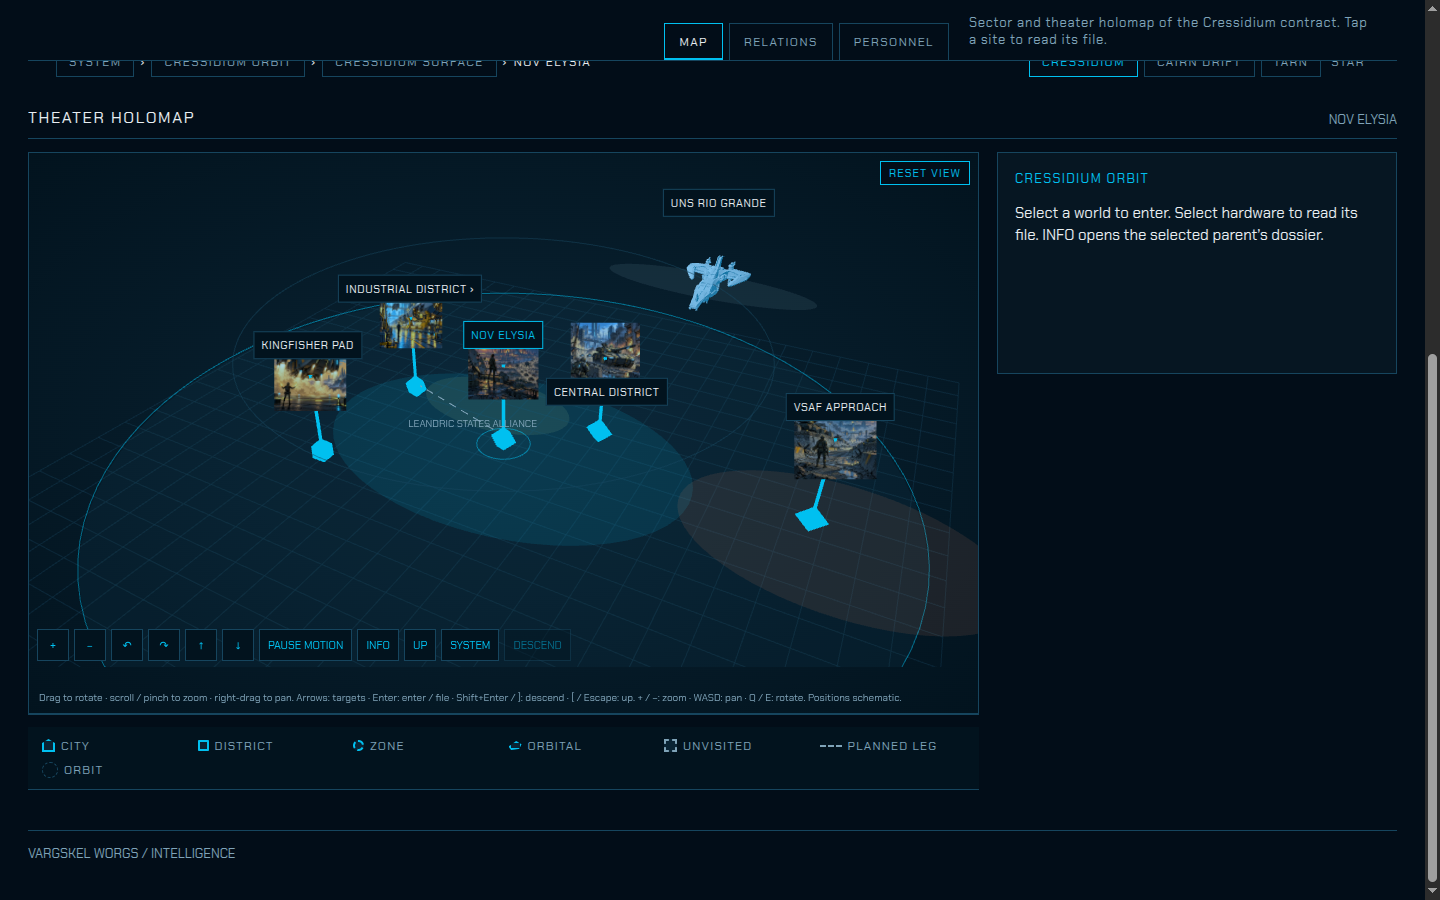
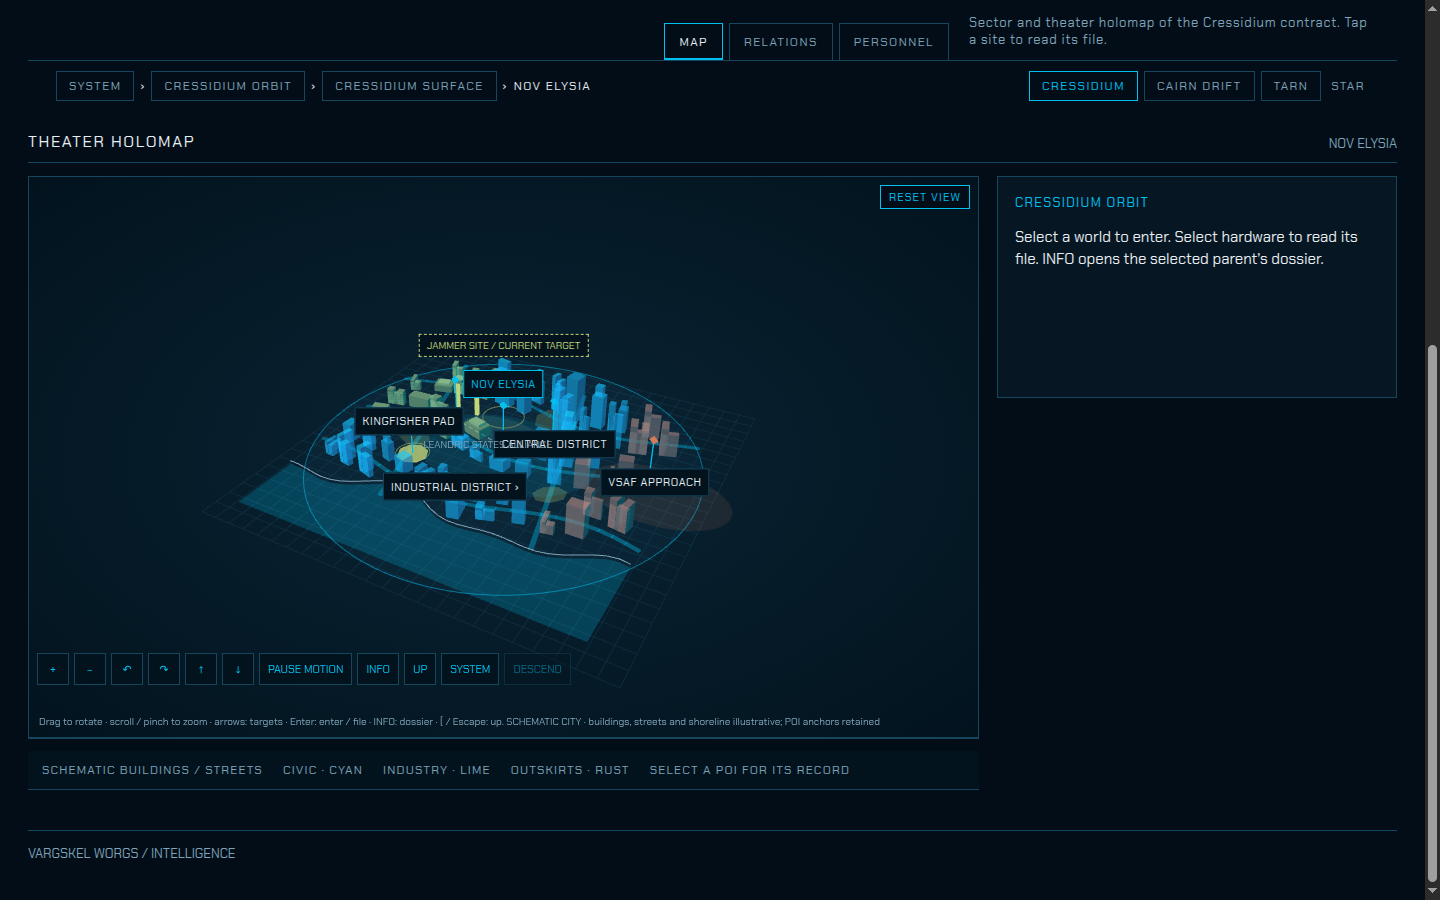
holomap(#29): build schematic coastal city neighborhoods

diff --git a/holomap3d.js b/holomap3d.js
@@ -48,12 +48,34 @@ function boot(){
  function texture(path,done){const g=generation;const t=own(new THREE.TextureLoader().load(path,()=>{if(g!==generation){t.dispose();return}done?.(t);awake()},undefined,e=>{if(g===generation)fallback(e)}));t.colorSpace=THREE.SRGBColorSpace;return t;}
  function build(fid){
   dispose();frame=fid;description=N.scene(fid,{reducedMotion:rm.matches});phase=0;
+  hint.textContent='Drag to rotate · scroll / pinch to zoom · arrows: targets · Enter: enter / file · INFO: dossier · [ / Escape: up. Positions schematic.';
   scene=new THREE.Scene();scene.add(new THREE.AmbientLight(palette.cyan,2));const light=new THREE.DirectionalLight(0xffffff,3);light.position.set(-3,5,3);scene.add(light);
   renderer.domElement.setAttribute('aria-label',description.aria);host.setAttribute('aria-label',description.aria);
   const grid=new THREE.GridHelper(description.radius*2.5,24,palette.line,palette.line);own(grid.geometry);own(grid.material);grid.material.transparent=true;grid.material.opacity=.35;grid.position.y=-.22;scene.add(grid);
   if(description.mode==='ground'){
    const table=mesh(new THREE.CircleGeometry(description.radius*1.2,64),material(palette.line,.15));table.rotation.x=-Math.PI/2;table.position.y=-.12;
    ring(description.radius*1.2,palette.cyan,scene,-.1);
+  }
+  if(description.city){
+   const city=description.city,box=own(new THREE.BoxGeometry(1,1,1)),dummy=new THREE.Object3D();
+   function instances(parts,mat){const inst=own(new THREE.InstancedMesh(box,mat,parts.length));parts.forEach((p,i)=>{dummy.position.fromArray(p.pos);dummy.scale.fromArray(p.size);dummy.rotation.set(0,p.yaw||0,0);dummy.updateMatrix();inst.setMatrixAt(i,dummy.matrix);if(p.shade!==undefined)inst.setColorAt(i,new THREE.Color(0xffffff).multiplyScalar(.62+p.shade*.38))});scene.add(inst);return inst;}
+   for(const kind of ['housing','civic','commercial','factory','outskirts']){const parcels=city.buildings.filter(b=>b.kind===kind),parts=[];
+    for(const b of parcels){const add=(dx,dz,sx,sz,h)=>{const c=Math.cos(b.yaw),s=Math.sin(b.yaw);parts.push({pos:[b.pos[0]+dx*c+dz*s,h/2,b.pos[2]-dx*s+dz*c],size:[sx,h,sz],yaw:b.yaw,shade:b.shade})};const [w,h,d]=b.size;
+     if(b.form==='L'||b.form==='U'){add(-w*.3,0,w*.4,d,h);add(0,d*.3,w,d*.4,h*.8);if(b.form==='U')add(w*.3,0,w*.4,d,h*.9)}else{add(0,0,w,d,h);if(b.form==='stepped')parts.push({pos:[b.pos[0],h*1.15,b.pos[2]],size:[w*.65,h*.3,d*.65],yaw:b.yaw,shade:b.shade});}
+    }if(!parts.length)continue;
+    const color=kind==='outskirts'?palette.rust:kind==='factory'?palette.lime:palette.cyan;
+    instances(parts,own(new THREE.MeshPhongMaterial({color,emissive:palette.line,transparent:true,opacity:.65,shininess:50})));
+    // Solid low-poly roofs avoid the diagonal triangulation of wireframe boxes.
+   }
+   instances(city.streets,material(palette.cyan,.25));
+   const outline=city.water.points,shape=new THREE.Shape();shape.moveTo(outline[0][0],-outline[0][1]);outline.slice(1).forEach(p=>shape.lineTo(p[0],-p[1]));shape.lineTo(outline.at(-1)[0],-description.radius*1.15);shape.lineTo(outline[0][0],-description.radius*1.15);shape.closePath();
+   const water=mesh(new THREE.ShapeGeometry(shape),material(palette.cyan,.23));water.rotation.x=-Math.PI/2;water.position.y=-.04;
+   const shore=new THREE.Line(own(new THREE.BufferGeometry().setFromPoints(outline.map(p=>new THREE.Vector3(p[0],.015,p[1])))),own(new THREE.LineBasicMaterial({color:palette.muted})));scene.add(shore);
+   for(const p of city.parks){const park=mesh(new THREE.CircleGeometry(1,7),material(palette.lime,.24));park.rotation.set(-Math.PI/2,0,p.yaw);park.scale.set(p.size[0],p.size[2],1);park.position.fromArray(p.pos);}
+   const industry=description.bodies.find(b=>b.id==='industry');if(industry){const stacks=[-.17,.17].map(dx=>({pos:[industry.pos[0]+dx,.22,industry.pos[2]-.32],size:[.055,.44,.055]}));instances(stacks,material(palette.lime));}
+   for(const b of description.bodies.filter(b=>b.id==='dropzone'||b.id==='dock')){const pad=mesh(new THREE.CylinderGeometry(.22,.22,.025,8),material(palette.lime,.55));pad.position.set(b.pos[0],.015,b.pos[2]);ring(.24,palette.lime,pad,.02);}
+   if(city.target){const target=document.createElement('span');target.className='holo3d-target';target.textContent=city.target.label;labels.append(target);city.target.element=target;const p=city.target.pos;ring(.32,palette.lime,scene,.025).position.set(p[0],0,p[2]);}
+   hint.textContent='Drag to rotate · scroll / pinch to zoom · arrows: targets · Enter: enter / file · INFO: dossier · [ / Escape: up. '+city.notice;
   }
   for(const b of description.bodies){
    const group=new THREE.Group();group.position.fromArray(b.pos);scene.add(group);
@@ -70,7 +92,8 @@ function boot(){
     const inst=new THREE.InstancedMesh(own(new THREE.BoxGeometry(.04,.03,.08)),material(palette.cyan),b.count);const dummy=new THREE.Object3D();
     for(let i=0;i<b.count;i++){const a=i*2.39996,r=b.r*Math.sqrt((i+.5)/b.count);dummy.position.set(Math.cos(a)*r,Math.sin(i*31)*.14,Math.sin(a)*r);dummy.rotation.set(i,i*2,i*3);dummy.updateMatrix();inst.setMatrixAt(i,dummy.matrix)}group.add(inst);own(inst);item.spin=inst;
    }else{
-    mesh(new THREE.OctahedronGeometry(b.r*.65),material(b.cur?palette.lime:palette.cyan),group);
+    const marker=mesh(new THREE.OctahedronGeometry(b.r*.65),material(b.id==='vsaf'?palette.rust:b.cur?palette.lime:palette.cyan),group);
+    if(description.city){marker.position.y=.72;const stem=mesh(new THREE.CylinderGeometry(.009,.009,.72,5),material(palette.cyan),group);stem.position.y=.36;}
     if(b.h){const stem=mesh(new THREE.CylinderGeometry(.012,.012,b.h,6),material(palette.cyan),group);stem.position.y=b.h/2;
      const art=mesh(new THREE.PlaneGeometry(.48,.48),own(new THREE.MeshBasicMaterial({map:texture(b.thumb),color:0xaadfff,side:THREE.DoubleSide})),group);art.position.y=b.h;item.card=art;
     }
@@ -82,6 +105,8 @@ function boot(){
   for(const l of description.legs){const a=objects.get(l.from).group.position.clone(),b=objects.get(l.to).group.position.clone();a.y=b.y=.03;const line=new THREE.Line(own(new THREE.BufferGeometry().setFromPoints([a,b])),own(new THREE.LineDashedMaterial({color:l.plan?palette.muted:palette.lime,dashSize:.08,gapSize:.06})));line.computeLineDistances();scene.add(line)}
   for(const z of description.zones.filter(z=>z.label)){const tag=document.createElement('span');tag.className='holo3d-zone-label';tag.textContent=z.label;labels.append(tag);z.tag=tag;}
   if(description.star){const star=mesh(new THREE.SphereGeometry(.12,16,12),material(palette.cyan));star.position.fromArray(description.star.pos);ring(.3,palette.cyan,star);}
+  document.querySelector('.holo-key').classList.toggle('city-key',!!description.city);
+  if(description.city){const key=document.querySelector('.holo-key');key.innerHTML='<li>SCHEMATIC BUILDINGS / STREETS</li><li>CIVIC · CYAN</li><li>INDUSTRY · LIME</li><li>OUTSKIRTS · RUST</li><li>SELECT A POI FOR ITS RECORD</li>';}
   reset();mark('loc',selected);crumbs();mode();awake();
  }
  function reset(){if(!description)return;const c=description.camera;camera.fov=c.fov;controls.target.fromArray(c.target);controls.cursor.copy(controls.target);controls.maxTargetRadius=description.radius*.65;controls.minDistance=c.minDistance;controls.minPolarAngle=c.minPolar;controls.maxPolarAngle=c.maxPolar;resize();fit=UI.fitDistance(description,camera.aspect);controls.maxDistance=fit*c.maxZoomOut;camera.position.set(Math.sin(c.polar)*Math.sin(c.azimuth),Math.cos(c.polar),Math.sin(c.polar)*Math.cos(c.azimuth)).multiplyScalar(fit).add(controls.target);controls.update();controls.saveState();interact();}
@@ -102,9 +127,10 @@ function boot(){
   if(flight){controls.enabled=false;const t=Math.min(1,(now-flight.start)/800),e=t*t*(3-2*t);camera.position.lerpVectors(flight.from,flight.to,e);host.style.opacity=String(1-.75*Math.sin(t*Math.PI));if(t===1){const fid=flight.fid;flight=null;controls.enabled=true;host.style.opacity='';navigate(fid)}}
   const changing=controls.update();renderer.render(scene,camera);
   const placed=[];
-  for(const o of objects.values()){projected.copy(o.group.position);projected.y+=(o.b.h||o.b.r)+.12;projected.project(camera);const w=o.tag.offsetWidth,h=o.tag.offsetHeight,cw=renderer.domElement.clientWidth;let x=Math.max(w/2+4,Math.min(cw-w/2-4,(projected.x*.5+.5)*cw)),y=Math.max(h+8,(-projected.y*.5+.5)*renderer.domElement.clientHeight);
+  for(const o of objects.values()){projected.copy(o.group.position);projected.y+=(description.city?.72:(o.b.h||o.b.r))+.12;projected.project(camera);const w=o.tag.offsetWidth,h=o.tag.offsetHeight,cw=renderer.domElement.clientWidth;let x=Math.max(w/2+4,Math.min(cw-w/2-4,(projected.x*.5+.5)*cw)),y=Math.max(h+8,(-projected.y*.5+.5)*renderer.domElement.clientHeight);
    for(let i=0;i<objects.size;i++){if(!placed.some(p=>Math.abs(p.x-x)<(p.w+w)/2+3&&Math.abs(p.y-y)<h+3))break;y+=h+4}
    placed.push({x,y,w});o.tag.style.transform=`translate(-50%,-100%) translate(${x}px,${y}px)`;o.tag.style.visibility=projected.z>1||projected.z< -1?'hidden':'';}
+  const target=description.city?.target;if(target){projected.set(target.pos[0],1.05,target.pos[2]).project(camera);target.element.style.transform=`translate(-50%,-100%) translate(${Math.max(105,Math.min(renderer.domElement.clientWidth-105,(projected.x*.5+.5)*renderer.domElement.clientWidth))}px,${Math.max(30,(-projected.y*.5+.5)*renderer.domElement.clientHeight)}px)`;}
   for(const z of description.zones.filter(z=>z.tag)){projected.set(z.center[0],.02,z.center[1]+z.rz).project(camera);z.tag.style.transform=`translate(-50%,0) translate(${(projected.x*.5+.5)*renderer.domElement.clientWidth}px,${(-projected.y*.5+.5)*renderer.domElement.clientHeight}px)`;}
   if(moving||changing||flight)awake();
   else if(!rm.matches&&!paused&&!held&&now<idleUntil){clearTimeout(wakeTimer);wakeTimer=setTimeout(awake,idleUntil-now+1);}

diff --git a/holomap-view.js b/holomap-view.js
@@ -5,6 +5,38 @@
  function initial(hash){if(!hash||hash==='#map')return 'cressidium:orbit';let id;try{id=decodeURIComponent(hash.replace(/^#map\//,''))}catch{return U.frameId()||'cressidium:orbit'}return L[id]?(L[id].frame||'SYSTEM'):(U.frameId()||'cressidium:orbit')}
  function parent(v){if(v==='cressidium')return 'cressidium:orbit';if(v==='cressidium:orbit')return 'SYSTEM';return v==='SYSTEM'?null:(L[v].frame||'SYSTEM')}
  function action(v,id){if(v==='cressidium:orbit'&&id==='cressidium')return {view:'cressidium'};if(id!==v&&U.members(id).length>1)return {view:id==='cressidium'?'cressidium:orbit':id};return {info:id}}
+ // Decorative blocks are diagram symbols, not surveyed buildings or new campaign geography.
+ function cityGeometry(s){
+  const industrial=s.frame==='industry',buildings=[],streets=[],parks=[],R=s.radius*1.05;
+  let seed=industrial?931:271;const random=()=>{seed=(Math.imul(seed,1664525)+1013904223)>>>0;return seed/4294967296};
+  const approach=s.bodies.find(b=>b.id==='industry').pos;
+  const target=industrial?null:{label:'JAMMER SITE / CURRENT TARGET',pos:[approach[0]+.58,0,approach[2]-.42]};
+  const coast=x=>R*.67+.16*Math.sin(x*2.1)+.09*Math.cos(x*4);
+  for(let i=0;i<3;i++){const a=.7+i*2.1;parks.push({pos:[Math.cos(a)*R*.56,.005,Math.sin(a)*R*.42],size:[.24+i*.045,.02,.18+i*.03],yaw:a});}
+  // Three bent boulevards define neighborhoods; parcels follow their local tangents.
+  for(let lane=0;lane<3;lane++){
+   let previous=null;
+   for(let i=0;i<=26;i++){
+    const x=-R+i*2*R/26,z=(lane-1)*R*.49+.2*Math.sin(x*1.6+lane);
+    if(previous){const dx=x-previous[0],dz=z-previous[1];streets.push({pos:[(x+previous[0])/2,-.005,(z+previous[1])/2],size:[Math.hypot(dx,dz)+.015,.015,.055],yaw:-Math.atan2(dz,dx)});}
+    previous=[x,z];if(i%2)continue;
+    const yaw=-Math.atan(.32*Math.cos(x*1.6+lane));
+    for(const side of [-1,1]){
+     const px=x+(random()-.5)*.07,pz=z+side*(.19+random()*.06);
+     if(Math.hypot(px,pz)>R||pz>coast(px)-.15||s.bodies.some(b=>Math.hypot(px-b.pos[0],pz-b.pos[2])<.3)||parks.some(p=>Math.hypot(px-p.pos[0],pz-p.pos[2])<.32))continue;
+     const commercial=target&&Math.hypot(px-target.pos[0],pz-target.pos[2])<.55;
+     const near=s.bodies.reduce((a,b)=>Math.hypot(px-b.pos[0],pz-b.pos[2])<Math.hypot(px-a.pos[0],pz-a.pos[2])?b:a);
+     const factory=industrial||near.id==='industry',civic=near.id==='district';
+     const h=commercial?.45+random()*.3:civic?.28+random()*.45:factory?.1+random()*.2:.12+random()*.35;
+     buildings.push({pos:[px,h/2,pz],size:[.12+random()*(factory?.25:.14),h,.1+random()*.16],yaw,form:['block','L','U','stepped'][Math.floor(random()*4)],shade:random(),kind:commercial?'commercial':factory?'factory':civic?'civic':near.id==='vsaf'?'outskirts':'housing'});
+    }
+   }
+  }
+  // Diagonal cross-streets join boulevards rather than repeating a square lattice.
+  for(const x of [-R*.55,R*.35])streets.push({pos:[x,-.006,-.12],size:[.065,.014,R*1.55],yaw:.24});
+  const points=Array.from({length:33},(_,i)=>{const x=-R+2*R*i/32;return [x,coast(x)]});
+  return {buildings,streets,parks,...(target?{target}:{}),water:{points,pos:[0,-.045,R*.85],size:[R*2,.02,R*.5]},quay:{points},notice:'SCHEMATIC CITY · buildings, streets and shoreline illustrative; POI anchors retained'};
+ }
  function scene(v,opts){const s=U.scene3d(canonical(v),opts);s.presentation=v;s.ascend=parent(v);
   if(v==='cressidium:orbit'){
    s.bodies=s.bodies.filter(b=>b.id!=='elysia');const rio=U.scene3d('elysia',opts).bodies.find(b=>b.id==='rio');rio.pos=[-1.35,.35,-1.3];rio.r=.3;rio.orbit={parent:'cressidium',radius:Math.hypot(rio.pos[0],rio.pos[2]),phase:Math.atan2(rio.pos[2],rio.pos[0]),period:260};s.bodies.push(rio);s.sub='CRESSIDIUM · ORBIT';s.aria='Cressidium orbit. Cressidium, Pell, Kessen Relay and UNS Rio Grande. Select Cressidium to view its surface. Hardware positions schematic.';
@@ -13,6 +45,12 @@
    // SphereGeometry uses x=-cos(phi), z=sin(phi); texture upload flips image Y.
    const u=316/1024,v=235/512,phi=2*Math.PI*u,theta=Math.PI*v;
    pin.pos=[-g.r*Math.cos(phi)*Math.sin(theta),g.r*Math.cos(theta),g.r*Math.sin(phi)*Math.sin(theta)];pin.surface='cressidium';pin.r=.07;delete pin.orbit;s.sub='CRESSIDIUM · SURFACE';s.aria='Cressidium surface globe. Select Nov Elysia to enter the city. Pin position schematic, not surveyed.';
+  }
+  if(s.mode==='ground'){
+   s.bodies=s.bodies.filter(b=>b.id!=='rio');s.bodies.forEach(b=>{delete b.h;b.r=.1});
+   s.zones=s.zones.filter(z=>z.on!=='rio');s.city=cityGeometry(s);s.aria+=' '+s.city.notice;
+   s.reach=s.bodies.map(b=>({p:[b.pos[0],.85,b.pos[2]],r:.18})).concat(s.city.buildings.map(b=>({p:b.pos,r:Math.max(...b.size)/2})));
+   const w=s.city.water;for(const dx of [-1,1])for(const dz of [-1,1])s.reach.push({p:[w.pos[0]+dx*w.size[0]/2,0,w.pos[2]+dz*w.size[2]/2],r:.1});
   }
   // Requested visual ratio only; labels retain their independent accessible hit targets.
   const planet=s.bodies.find(b=>b.id==='cressidium'),moon=s.bodies.find(b=>b.id==='pell');

diff --git a/style.css b/style.css
@@ -271,6 +271,8 @@ html[data-compact="1"] .threads-table td{padding:4px 8px 4px 0}
 .holo3d canvas{display:block;width:100%;outline-offset:-3px}
 .holo3d-labels{position:absolute;inset:0;pointer-events:none}
 .holo3d-tag{position:absolute;top:0;left:0;pointer-events:auto;max-width:180px;min-height:28px;padding:4px 7px;background:var(--holo-bg);color:var(--text);border:1px solid var(--line);font:11px var(--mono);letter-spacing:.06em;cursor:pointer}
+.holo-key.city-key{display:flex;flex-wrap:wrap;gap:10px 20px}
+.holo3d-target{position:absolute;left:0;top:0;max-width:210px;padding:4px 7px;color:var(--lime);background:var(--holo-bg);border:1px dashed var(--lime);font:10px var(--mono);pointer-events:none}
 .holo3d-zone-label{position:absolute;top:0;left:0;color:var(--muted);font:10px var(--mono);white-space:nowrap;pointer-events:none}
 .holo3d-tag:hover,.holo3d-tag.selected{border-color:var(--cyan);color:var(--cyan)}
 .holo3d :focus-visible{outline:2px solid var(--lime);outline-offset:2px}

diff --git a/previews/holomap-3d/README.md b/previews/holomap-3d/README.md
@@ -1,5 +1,30 @@
 # 3D holomap browser evidence
 
+## Procedural city iteration
+
+City and industrial views now use bounded deterministic parcels along three bent
+boulevards and diagonal connecting streets. Rectangular warehouses, L/U compounds
+and stepped towers share box geometry; roofs are solid, with restrained per-instance
+shade variation. Irregular parks reserve open space, and an unnamed curved shoreline
+borders the expanded table coverage. Raised POI pins retain canonical anchors. Art
+thumbnails remain in dossiers. Rio Grande is absent from city geometry but stays
+selectable in planetary orbit; its existing deep link still opens its dossier.
+
+`JAMMER SITE / CURRENT TARGET` is noninteractive text above a distinct tall
+commercial cluster near the industrial approach. It has no canonical ID, dossier
+or deep link. This is the approved current-encounter visibility boundary. No
+future encounter metadata or private source text was added. All invented street,
+building and shoreline bearings are explicitly schematic; campaign.js is unchanged.
+
+Fresh browser evidence: `corrected-{desktop,phone}-city.png` and
+`city-{desktop,phone}-industry.png`. Desktop/phone orbit, globe surface, city,
+industrial descent and leaf dossiers passed with reduced motion, no uncaught
+exceptions and no horizontal overflow. Context loss showed SVG; restoration
+returned to 3D. Offline reload followed by city navigation rendered procedural buildings
+without Rio. Layout tests enforce footprint/form/rotation diversity, broad extents,
+reserved parks and deterministic output rather than claiming visual realism. Forced no-WebGL load showed SVG. Device GPU performance, physical
+touch input and screen-reader speech remain untested.
+
 ## Corrected orbit-first interaction
 
 Fresh screenshots: `corrected-{desktop,phone}-{orbit,surface,city}.png`.
